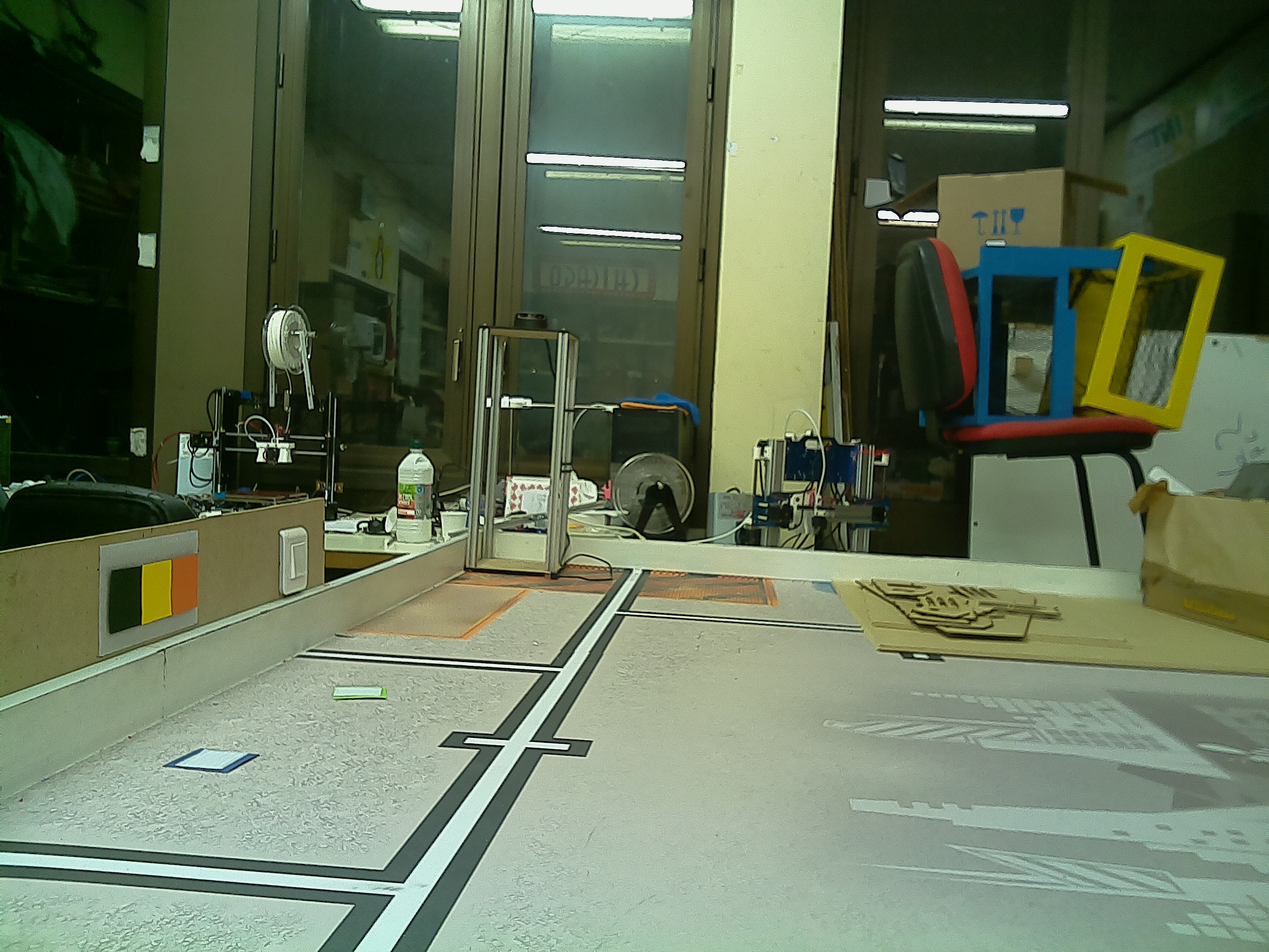
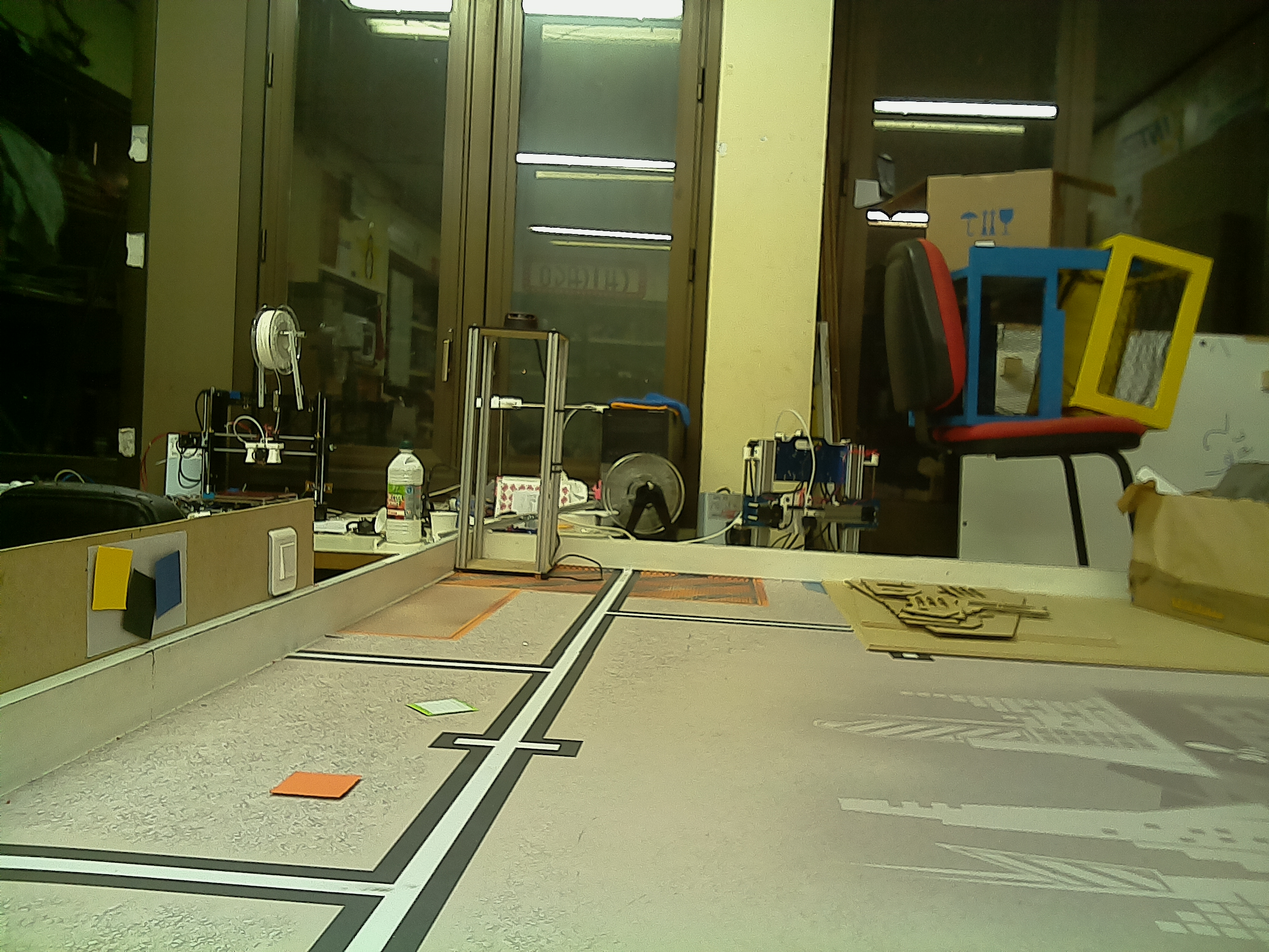
Détection de pattern qui semble etre opérationnelle, en train de singe-proof

diff --git a/src/patternRecognition/PatternRecognition.java b/src/patternRecognition/PatternRecognition.java
@@ -9,6 +9,7 @@ import java.io.File;
 import java.io.IOException;
 import java.util.ArrayList;
 
+import static jdk.nashorn.internal.objects.NativeMath.max;
 
 
 /** Classe permettant de faire la reconnaissance de patterns
@@ -156,11 +157,11 @@ public class PatternRecognition extends AbstractThread{
         int[] mediansList= new int[3];
         for (int i=0; i<3; i++){
             mediansList[i]=getMedianValue(colorMatrix, xstart, ystart, xend, yend, i);
-            if (debug==true) {
+            if (debug) {
                 System.out.println("posRGB:"+i+" MedianValue:"+mediansList[i]);
             }
         }
-        if (debug==true){
+        if (debug){
             System.out.println("");
         }
         return mediansList;
@@ -209,7 +210,7 @@ public class PatternRecognition extends AbstractThread{
         double[] inverseDistances=computeInverseDistanceToAllColors(RGBToEvaluate);
         double[] normalizedInverseDistances = normalizeDoubleList(inverseDistances);
 
-        if (debug==true && alreadyPrintedColorMatchingProba==false) {
+        if (debug && !alreadyPrintedColorMatchingProba) {
             for (int i = 0; i < normalizedInverseDistances.length; i++) {
                 System.out.println("Proba corresponde a la couleur "+Colors.getNameFromID(i)+":\t"+normalizedInverseDistances[i]);
             }
@@ -230,7 +231,7 @@ public class PatternRecognition extends AbstractThread{
         double finalProbability = 1;
         for (int i=0; i<3; i++){
             int colorID=pattern[i].getID();
-            if (debug==true && alreadyPrintedColorMatchingProba==false){
+            if (debug && !alreadyPrintedColorMatchingProba){
                 if (i==0) {
                     System.out.println("First color :");
                 }
@@ -273,7 +274,7 @@ public class PatternRecognition extends AbstractThread{
      * @return renvoe la liste normalisée des probabilités que la pattern pris en photo soit un des patterns de la liste
      * (correspondance entre les indices de la liste renvoyée et l'ID des patterns)
      */
-    private double[] encapsulationThreeFourFive(int[][][] colorMatrix, int[] xstarts, int[] ystarts, int[] xends, int[] yends) {
+    private double[] computeProximity(int[][][] colorMatrix, int[] xstarts, int[] ystarts, int[] xends, int[] yends) {
         if (debug==true){
             System.out.println("First color");
         }
@@ -291,8 +292,11 @@ public class PatternRecognition extends AbstractThread{
             mediansList[i] = mediansListTemp[i];
         }
         double[] probabilitiesList = compareThreeRGBsToAllPatterns(mediansList);
-        double[] normalizedList=normalizeDoubleList(probabilitiesList);
-        return normalizedList;
+        return probabilitiesList;
+    }
+    private double[] computeProximity(int[][][] colorMatrix, int[][] positionsColorsOnImage){
+        double[] probabilitiesList = computeProximity(colorMatrix, positionsColorsOnImage[0], positionsColorsOnImage[1], positionsColorsOnImage[2], positionsColorsOnImage[3]);
+        return probabilitiesList;
     }
 
     //////////////////////////////////// DISCRIMINATION /////////////////////////////////////////////
@@ -431,13 +435,6 @@ public class PatternRecognition extends AbstractThread{
     private int computeFinalIndice(double[] probabilitiesList, int[][][] colorMatrix, int[][] positionsColorsOnImage) {
         ArrayList<Integer> selectionnedProbabilitiesIndice = selectBestProbabilities(probabilitiesList);
         int finalIndice = 10;
-        if (debug==true) {
-            System.out.println(selectionnedProbabilitiesIndice.toString());
-            System.out.println("Probabilities");
-            for (int i = 0; i < 10; i++) {
-                System.out.println(probabilitiesList[i]);
-            }
-        }
         if (selectionnedProbabilitiesIndice.size() == 1) {
             finalIndice = getMostProbablePattern(probabilitiesList, selectionnedProbabilitiesIndice);
         } else {
@@ -445,10 +442,11 @@ public class PatternRecognition extends AbstractThread{
                 System.out.println("////////////// Lighting up the color matrix ////////////////");
             }
             int[][][] colorMatrixLitUp=lightUpColors(colorMatrix,positionsColorsOnImage[0],positionsColorsOnImage[1],positionsColorsOnImage[2],positionsColorsOnImage[3]);
-            double[] probabilitiesListLitUp = encapsulationThreeFourFive(colorMatrixLitUp, positionsColorsOnImage[0], positionsColorsOnImage[1], positionsColorsOnImage[2], positionsColorsOnImage[3]);
+            double[] distancesListLitUp = computeProximity(colorMatrixLitUp, positionsColorsOnImage[0], positionsColorsOnImage[1], positionsColorsOnImage[2], positionsColorsOnImage[3]);
+            double[] probabilitiesListLitUp=normalizeDoubleList(distancesListLitUp);
             ArrayList<Integer> selectionnedProbabilitiesIndiceLitUp = selectBestProbabilities(probabilitiesListLitUp);
 
-            if (debug==true) {
+            if (debug) {
                 System.out.println(selectionnedProbabilitiesIndiceLitUp.toString());
                 System.out.println("LitUpProbabilities");
                 for (int i = 0; i < 10; i++) {
@@ -489,8 +487,10 @@ public class PatternRecognition extends AbstractThread{
      * @return l'id du pattern (int de 0 à 9, bornes comprises)
      */
     private double[] analysePattern(int[][][] colorMatrix, int[][] positionsColorsOnImage) {
-        double[] probabilitiesList = encapsulationThreeFourFive(colorMatrix, positionsColorsOnImage[0], positionsColorsOnImage[1], positionsColorsOnImage[2], positionsColorsOnImage[3]);
-        return probabilitiesList;
+        alreadyPrintedColorMatchingProba=false;
+        double[] distancesList = computeProximity(colorMatrix, positionsColorsOnImage[0], positionsColorsOnImage[1], positionsColorsOnImage[2], positionsColorsOnImage[3]);
+        double[] normalizedList=normalizeDoubleList(distancesList);
+        return normalizedList;
     }
 
     /////////////////////////////// CALCULATING CENTER OF LOCATED PATTERN ///////////////////////////////
@@ -515,7 +515,7 @@ public class PatternRecognition extends AbstractThread{
 
     /////////////////////////// REPLACING THE LOCATED ZONE //////////////////////////
 
-    private boolean doZoneHasToBeShifted(int[][][] colorMatrix, int[] center, int lengthSideOfSquareDetection){
+    private boolean doCenterHasToBeXShifted(int[][][] colorMatrix, int[] center, int lengthSideOfSquareDetection){
         int[] countingArray=new int[]{0,0,0,0,0};
         for (int x=-lengthSideOfSquareDetection/2; x<lengthSideOfSquareDetection/2; x++){
             double[] RGBprobabilities=computeInverseDistanceToAllColors(colorMatrix[center[0]+x][center[1]]);
@@ -571,9 +571,8 @@ public class PatternRecognition extends AbstractThread{
     public PatternRecognition(String pathToImage, int[] zoneToPerformLocalisation){
         //TODO:CALIBRER SUR UNE IMAGE SOMBRE
         this.pathToImage=pathToImage;
-        this.positionsColorsOnImage=positionsColorsOnImage;
         this.zoneToPerformLocalisation=zoneToPerformLocalisation;
-        this.lengthSideOfSquareDetection=30; //in pixels
+        this.lengthSideOfSquareDetection=20; //in pixels
         this.distanceBetweenTwoColors=70; //in pixels
     }
 
@@ -581,42 +580,59 @@ public class PatternRecognition extends AbstractThread{
         this.setPriority(5);
         int[][][] colorMatrix = createColorMatrix(pathToImage);
         centerPointPattern=calculateCenterPattern(pathToImage, zoneToPerformLocalisation);
-        boolean zoneHasToBeShifted=doZoneHasToBeShifted(colorMatrix, this.centerPointPattern, this.lengthSideOfSquareDetection);
-        if (zoneHasToBeShifted){
-            if (debug) {
-                System.out.println("Zone has to be shifted");
+        if (!(centerPointPattern[0] == 0 && centerPointPattern[1] == 0)) {
+            double[][] distanceArrays = new double[5][10];
+            int halfLengthSideOfSquareDetection = lengthSideOfSquareDetection / 2;
+            int halfDistanceBetweenTwoColors = distanceBetweenTwoColors / 2;
+            int iStartValue = -2;
+            for (int i = iStartValue; i <= 2; i++) {
+                /**On définit où l'algorithme doit chercher ses couleurs
+                 * positionColorsOnImage=
+                 * {
+                 * {xStartFirstColor,xStartSecondColor,xStartThirdColor},
+                 * {yStartFirstColor,yStartSecondColor,yStartThirdColor},
+                 * {xEndFirstColor,xEndSecondColor,xEndThirdColor},
+                 * {yEndFirstColor,yEndSecondColor,yEndThirdColor},
+                 * }
+                 */
+                positionsColorsOnImage = new int[][]
+                        {{Math.max(centerPointPattern[0] - halfLengthSideOfSquareDetection - distanceBetweenTwoColors + i * halfDistanceBetweenTwoColors, 0),
+                          Math.max(centerPointPattern[0] - halfLengthSideOfSquareDetection + i * halfDistanceBetweenTwoColors, 0),
+                          Math.max(centerPointPattern[0] - halfLengthSideOfSquareDetection + distanceBetweenTwoColors + i * halfDistanceBetweenTwoColors, 0)},
+                         {centerPointPattern[1] - halfLengthSideOfSquareDetection,
+                          centerPointPattern[1] - halfLengthSideOfSquareDetection,
+                          centerPointPattern[1] - halfLengthSideOfSquareDetection},
+                         {Math.max(centerPointPattern[0] + halfLengthSideOfSquareDetection - distanceBetweenTwoColors + i * halfDistanceBetweenTwoColors, 0),
+                          Math.max(centerPointPattern[0] + halfLengthSideOfSquareDetection + i * halfDistanceBetweenTwoColors, 0),
+                          Math.max(centerPointPattern[0] + halfLengthSideOfSquareDetection + distanceBetweenTwoColors + i * halfDistanceBetweenTwoColors, 0)},
+                         {centerPointPattern[1] + halfLengthSideOfSquareDetection,
+                          centerPointPattern[1] + halfLengthSideOfSquareDetection,
+                          centerPointPattern[1] + halfLengthSideOfSquareDetection}};
+                distanceArrays[i - iStartValue] = computeProximity(colorMatrix, positionsColorsOnImage);
             }
+            double maxProba = 0;
+            int maxI = 0;
+            int maxJ = 0;
+            for (int i = 0; i < distanceArrays.length; i++) {
+                if (debug) {
+                    System.out.println("");
+                    System.out.println("Proximity (Xshifted by " + ((i + iStartValue) * halfDistanceBetweenTwoColors) + " )");
+                }
+                for (int j = 0; j < distanceArrays[0].length; j++) {
+                    if (distanceArrays[i][j] > maxProba) {
+                        maxProba = distanceArrays[i][j];
+                        maxI = i;
+                        maxJ = j;
+                    }
+                    if (debug) {
+                        System.out.println(distanceArrays[i][j]);
+                    }
+                }
+            }
+            this.finalIndice = maxJ;
         }
-
-
-        /**On définit où l'algorithme doit chercher ses couleurs
-         * positionColorsOnImage=
-         * {
-         * {xStartFirstColor,xStartSecondColor,xStartThirdColor},
-         * {yStartFirstColor,yStartSecondColor,yStartThirdColor},
-         * {xEndFirstColor,xEndSecondColor,xEndThirdColor},
-         * {yEndFirstColor,yEndSecondColor,yEndThirdColor},
-         * }
-         */
-        int halfLengthSideOfSquareDetection=lengthSideOfSquareDetection/2;
-        positionsColorsOnImage=new int[][]
-                {{centerPointPattern[0]-halfLengthSideOfSquareDetection-distanceBetweenTwoColors,
-                  centerPointPattern[0]-halfLengthSideOfSquareDetection,
-                  centerPointPattern[0]-halfLengthSideOfSquareDetection+distanceBetweenTwoColors},
-                 {centerPointPattern[1]-halfLengthSideOfSquareDetection,
-                  centerPointPattern[1]-halfLengthSideOfSquareDetection,
-                  centerPointPattern[1]-halfLengthSideOfSquareDetection},
-                 {centerPointPattern[0]+halfLengthSideOfSquareDetection-distanceBetweenTwoColors,
-                  centerPointPattern[0]+halfLengthSideOfSquareDetection,
-                  centerPointPattern[0]+halfLengthSideOfSquareDetection+distanceBetweenTwoColors},
-                 {centerPointPattern[1]+halfLengthSideOfSquareDetection,
-                  centerPointPattern[1]+halfLengthSideOfSquareDetection,
-                  centerPointPattern[1]+halfLengthSideOfSquareDetection}};
-
-        double[] probabilitiesList=analysePattern(colorMatrix, this.positionsColorsOnImage);
-        this.finalIndice=computeFinalIndice(probabilitiesList,colorMatrix,positionsColorsOnImage);
-        if (debug==true){
-            System.out.println("Pattern recognized : "+finalIndice);
+        if (debug == true) {
+            System.out.println("Pattern recognized : " + finalIndice);
         }
         while (!this.isShutdown){
             try {

diff --git a/src/patternRecognition/LocatePattern.java b/src/patternRecognition/LocatePattern.java
@@ -43,10 +43,9 @@ public class LocatePattern {
             //Essentials
             int[][] firstRect = findRectangle(image, 10, 20, 9);
             int[][] secondRect = findRectangle(image, 30, 40, 9);
-            int[][] thirdRect = findRectangle(image, 30, 40, 15);
             //Add-ons
             //int[][] forthRect = findRectangle(image, 30, 40, 21);
-            foundRectangles = new int[][][]{firstRect, secondRect, thirdRect};
+            foundRectangles = new int[][][]{firstRect, secondRect};
         } catch (Exception e) {
             foundRectangles = null;
             e.printStackTrace();

diff --git a/src/tests/JUnit_PatternRecognition.java b/src/tests/JUnit_PatternRecognition.java
@@ -9,9 +9,9 @@ public class JUnit_PatternRecognition extends JUnit_Test {
     @Test
     public void testReconnaissance(){
         String pathToImage = "ImageRaspberryPi.png";
-        boolean debug=true;
         int[] zoneToPerformLocalisation={0,700,800,800};
         PatternRecognition patternRecognitionThread = new PatternRecognition(pathToImage, zoneToPerformLocalisation);
+        boolean debug=true;
         patternRecognitionThread.setDebugPatternRecognition(debug);
         log.debug("Starting PatternRecognition thread...");
         patternRecognitionThread.start();
